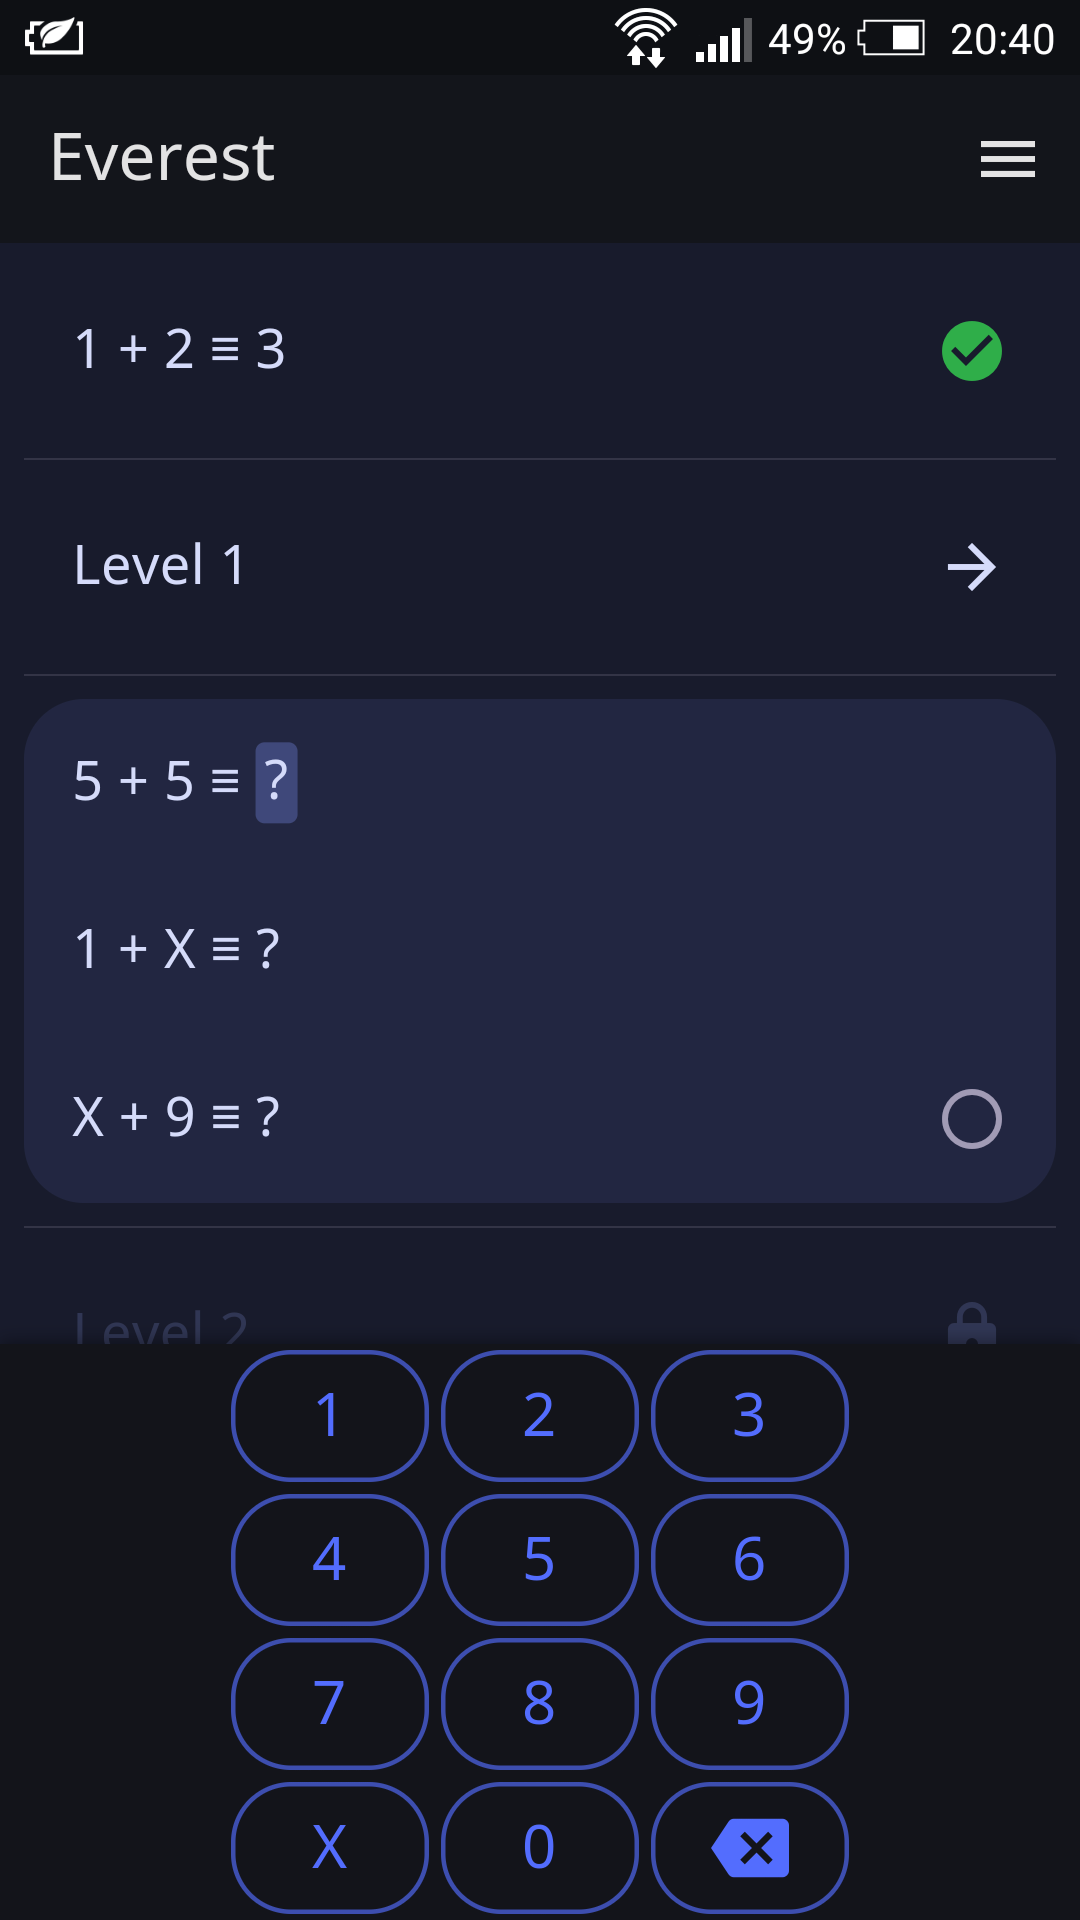
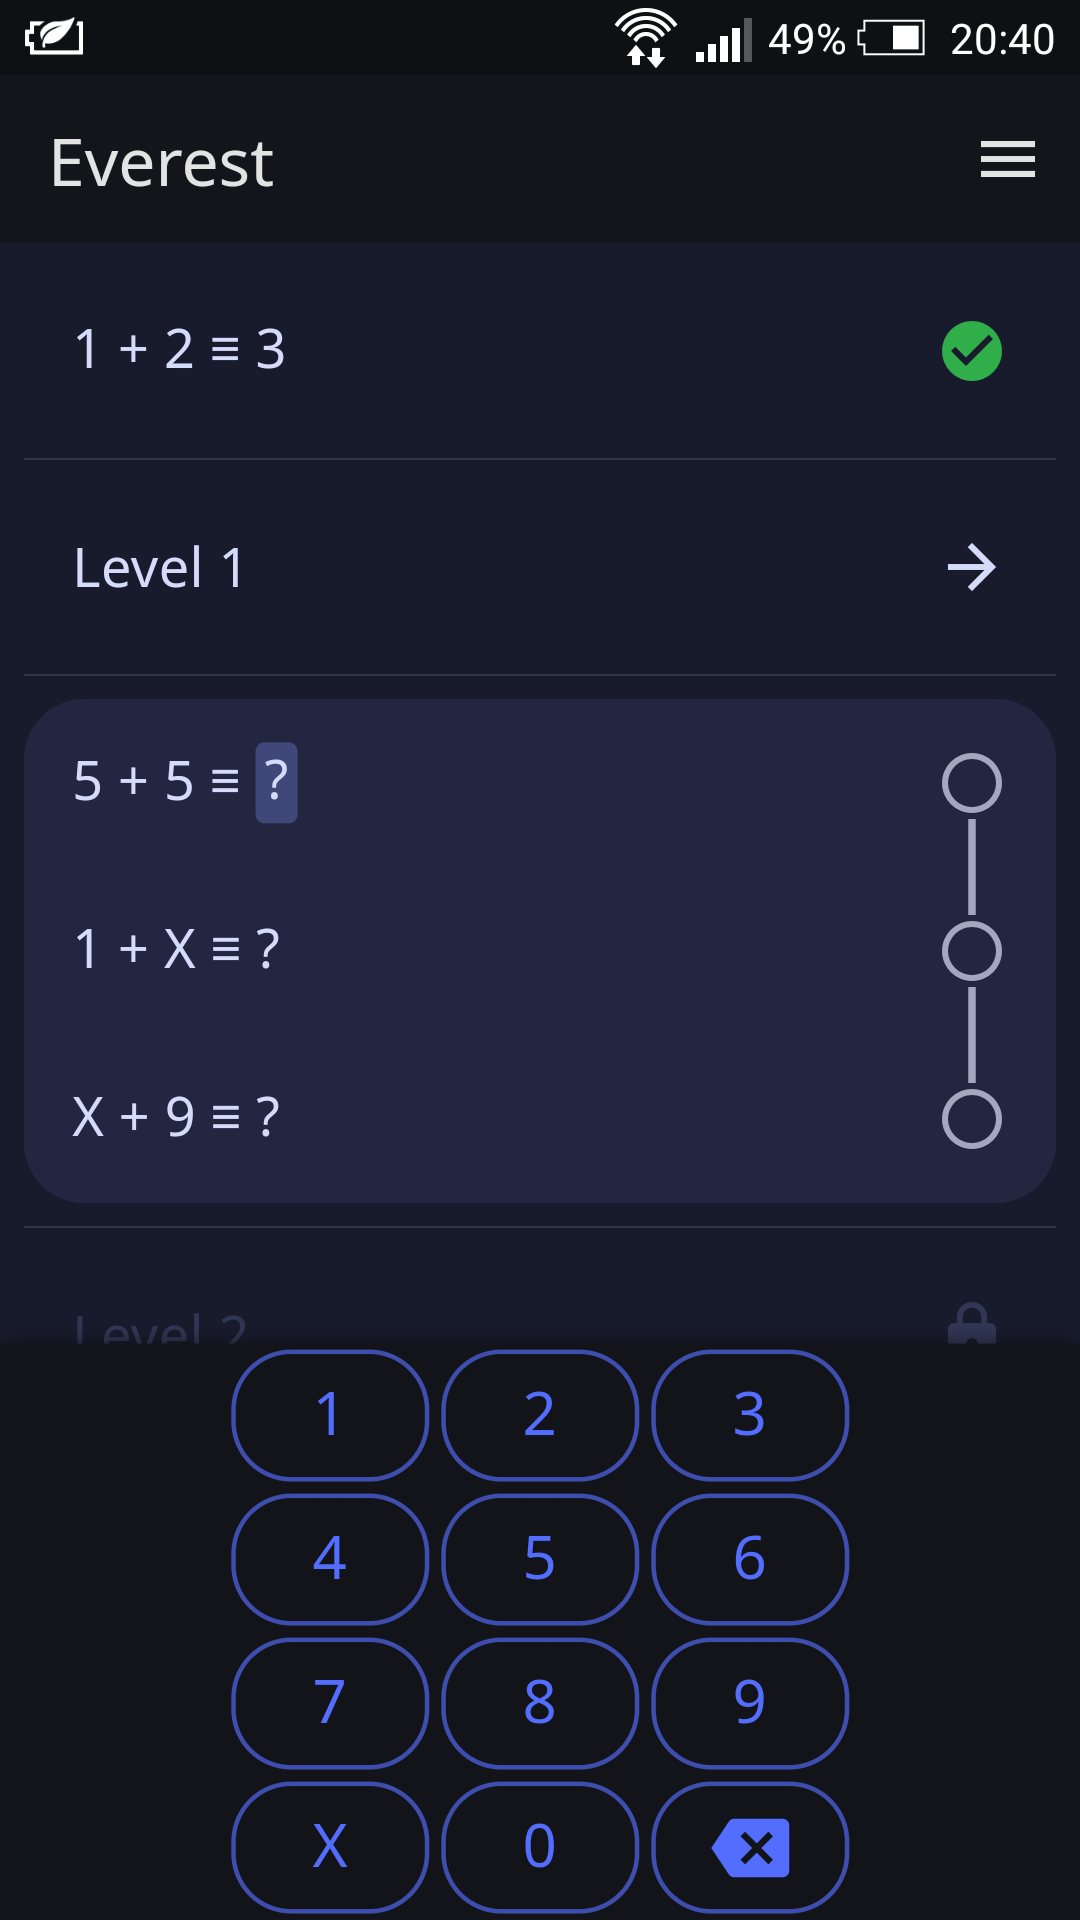
update images and changelog

diff --git a/CHANGELOG.md b/CHANGELOG.md
@@ -3,6 +3,10 @@
 ## [Unreleased]
 ### Added
 - French translation (by @DodoLeDev)
+- several tests
+
+### Changed
+- sets of questions now show an icon for each question for better visual feedback
 
 ## [1.1.4] - 2022-09-01
 ### Added
